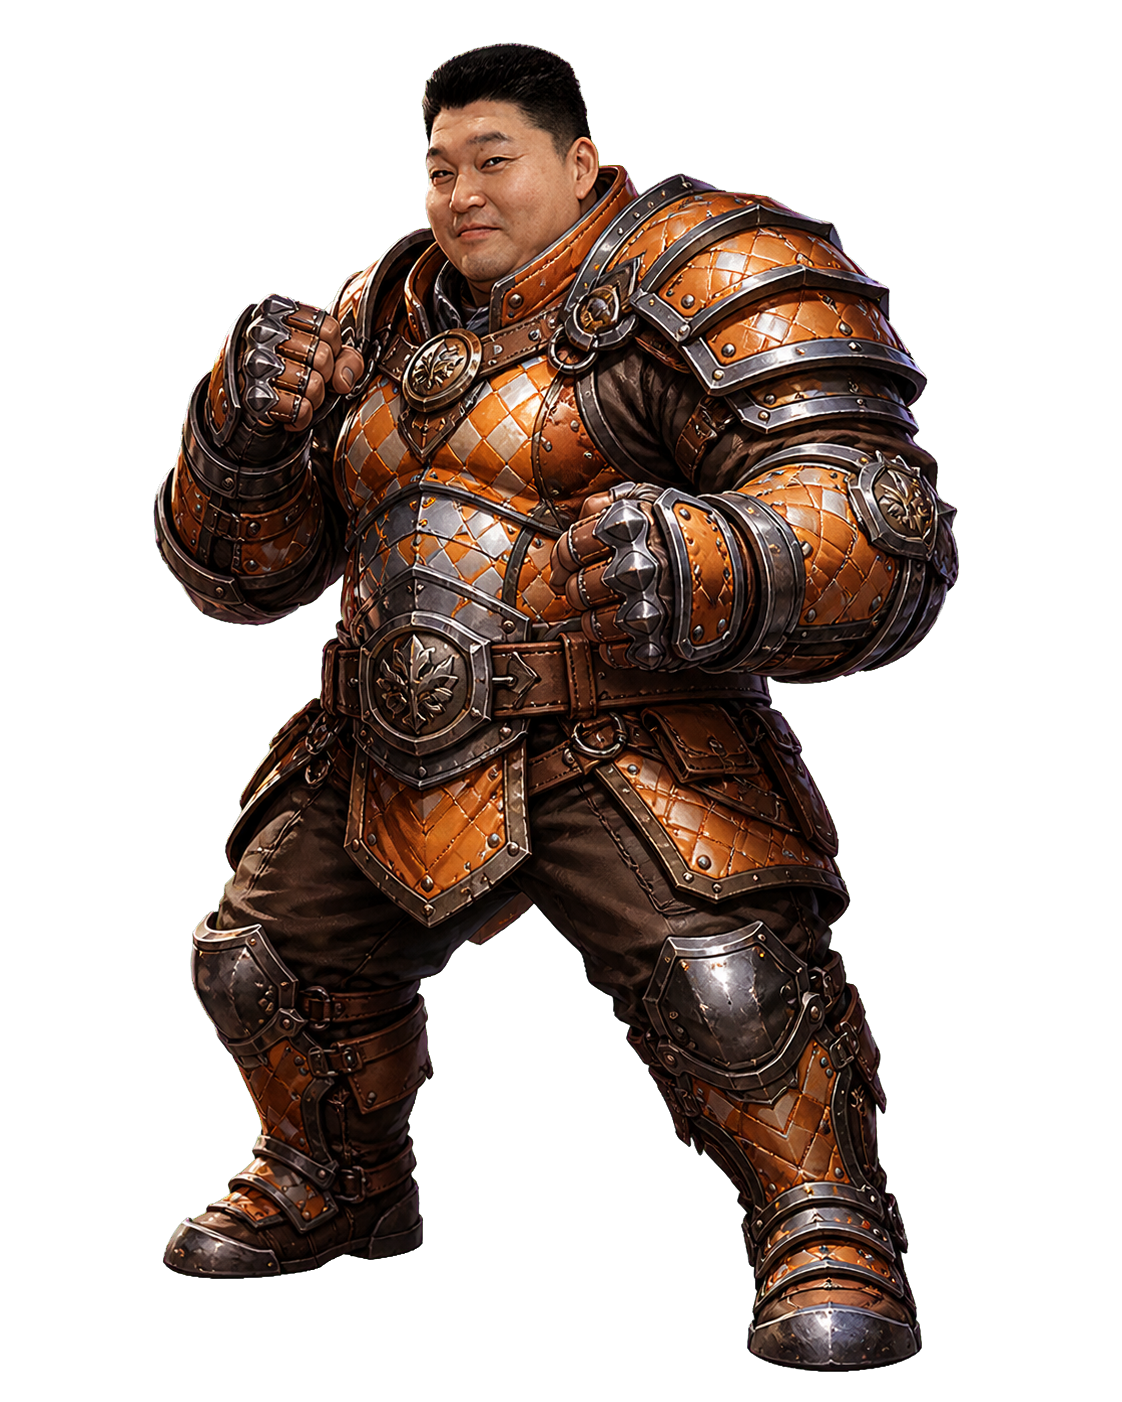
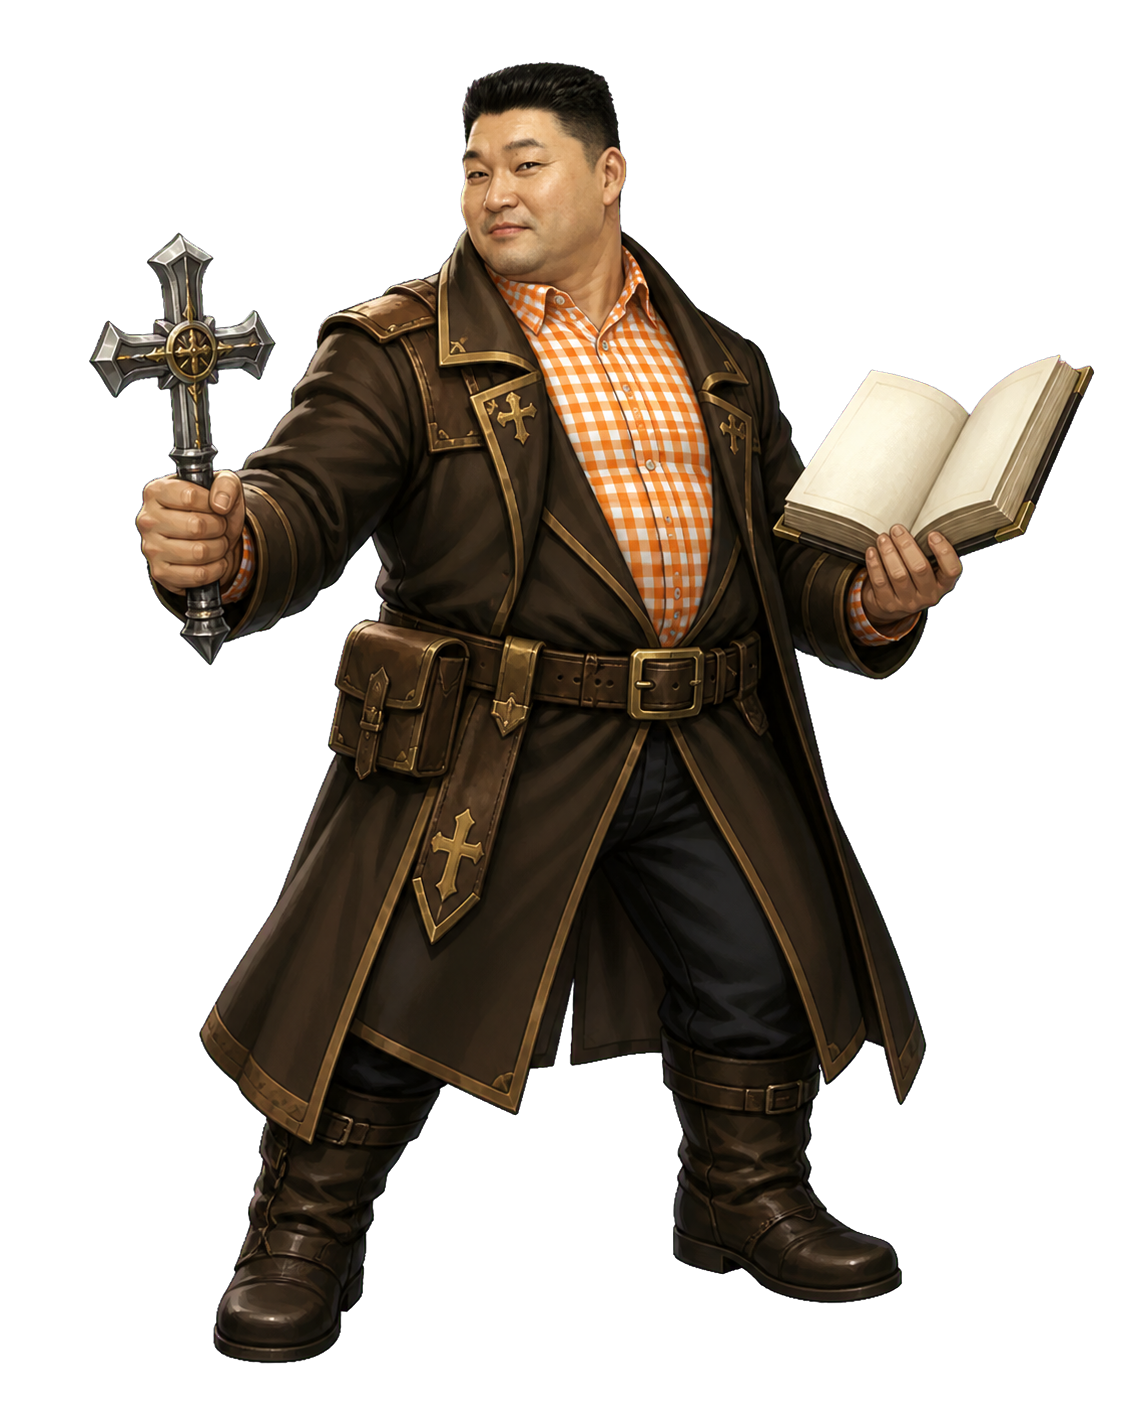
필드

diff --git a/public/hfield.js b/public/hfield.js
@@ -21,6 +21,11 @@
         fail: uiAsset('sfx/fail.mp3'), count: uiAsset('sfx/count.mp3'), potion: uiAsset('sfx/potion.mp3')
     };
     const reducedMotion = matchMedia('(prefers-reduced-motion: reduce)').matches;
+    const CARD_AURA_COLORS = {
+        9: [.5,1,.18,1],
+        10: [.2,.76,1,1],
+        11: [1,.12,.1,1]
+    };
     const clamp = (value, min, max) => Math.max(min, Math.min(max, value));
     const ratio = (value, max) => clamp(Number(value || 0) / Math.max(1, Number(max || 1)), 0, 1);
     const number = value => Number(value || 0).toLocaleString('ko-KR');
@@ -139,7 +144,7 @@
                 void main(){float c=cos(uRotation),s=sin(uRotation);vec2 p=vec2(aPosition.x*c-aPosition.y*s,aPosition.x*s+aPosition.y*c)*uRect.zw;vec2 w=uRect.xy+p;gl_Position=vec4(w.x*2.0-1.0,1.0-w.y*2.0,0.0,1.0);vUv=aPosition+0.5;}`);
             const fragment = this.compile(gl.FRAGMENT_SHADER, `
                 precision mediump float; uniform sampler2D uTexture; uniform vec4 uColor; uniform float uMode; uniform float uFlash; varying vec2 vUv;
-                void main(){vec4 p;if(uMode<0.5){p=texture2D(uTexture,vUv);p.rgb*=uColor.rgb;p.a*=uColor.a;}else if(uMode<1.5){float d=length((vUv-.5)*2.0);p=vec4(uColor.rgb,(1.0-smoothstep(0.0,1.0,d))*uColor.a);}else if(uMode<2.5){float l=1.0-smoothstep(.025,.22,abs(vUv.y-.5));float e=smoothstep(0.0,.2,vUv.x)*smoothstep(0.0,.2,1.0-vUv.x);p=vec4(uColor.rgb,l*e*uColor.a);}else{p=uColor;}p.rgb=mix(p.rgb,vec3(1.0),uFlash);if(p.a<.01)discard;gl_FragColor=p;}`);
+                void main(){vec4 p;if(uMode<0.5){p=texture2D(uTexture,vUv);p.rgb*=uColor.rgb;p.a*=uColor.a;}else if(uMode<1.5){float d=length((vUv-.5)*2.0);p=vec4(uColor.rgb,(1.0-smoothstep(0.0,1.0,d))*uColor.a);}else if(uMode<2.5){float l=1.0-smoothstep(.025,.22,abs(vUv.y-.5));float e=smoothstep(0.0,.2,vUv.x)*smoothstep(0.0,.2,1.0-vUv.x);p=vec4(uColor.rgb,l*e*uColor.a);}else if(uMode<3.5){p=uColor;}else if(uMode<4.5){float d=length((vUv-.5)*2.0);float ring=1.0-smoothstep(.04,.16,abs(d-.7));float glow=(1.0-smoothstep(.55,1.0,d))*.22;p=vec4(uColor.rgb,max(ring,glow)*uColor.a);}else if(uMode<5.5){float taper=1.0-abs(vUv.y*2.0-1.0);float width=.018+.12*taper*taper;float bend=(vUv.y-.5)*.12;float blade=1.0-smoothstep(width,width+.035,abs(vUv.x-.5+bend));float edge=smoothstep(0.0,.14,vUv.y)*smoothstep(0.0,.14,1.0-vUv.y);p=vec4(uColor.rgb,blade*edge*uColor.a);}else if(uMode<6.5){vec4 t=texture2D(uTexture,vUv);float b=0.0;b+=texture2D(uTexture,vUv+vec2(.006,0.0)).a*3.0;b+=texture2D(uTexture,vUv-vec2(.006,0.0)).a*3.0;b+=texture2D(uTexture,vUv+vec2(0.0,.004)).a*3.0;b+=texture2D(uTexture,vUv-vec2(0.0,.004)).a*3.0;b+=texture2D(uTexture,vUv+vec2(.012,.008)).a*2.0;b+=texture2D(uTexture,vUv+vec2(-.012,.008)).a*2.0;b+=texture2D(uTexture,vUv+vec2(.012,-.008)).a*2.0;b+=texture2D(uTexture,vUv-vec2(.012,.008)).a*2.0;b+=texture2D(uTexture,vUv+vec2(.022,0.0)).a;b+=texture2D(uTexture,vUv-vec2(.022,0.0)).a;b+=texture2D(uTexture,vUv+vec2(0.0,.015)).a;b+=texture2D(uTexture,vUv-vec2(0.0,.015)).a;b+=texture2D(uTexture,vUv+vec2(.026,.018)).a*.7;b+=texture2D(uTexture,vUv+vec2(-.026,.018)).a*.7;b+=texture2D(uTexture,vUv+vec2(.026,-.018)).a*.7;b+=texture2D(uTexture,vUv-vec2(.026,.018)).a*.7;b/=24.8;float glow=pow(clamp(b,0.0,1.0),1.35)*(1.0-t.a*.72);p=vec4(uColor.rgb,glow*uColor.a);}else{vec4 t=texture2D(uTexture,vUv);float b=0.0;b+=texture2D(uTexture,vUv+vec2(.018,0.0)).a*2.0;b+=texture2D(uTexture,vUv-vec2(.018,0.0)).a*2.0;b+=texture2D(uTexture,vUv+vec2(0.0,.012)).a*2.0;b+=texture2D(uTexture,vUv-vec2(0.0,.012)).a*2.0;b+=texture2D(uTexture,vUv+vec2(.035,.024)).a;b+=texture2D(uTexture,vUv+vec2(-.035,.024)).a;b+=texture2D(uTexture,vUv+vec2(.035,-.024)).a;b+=texture2D(uTexture,vUv-vec2(.035,.024)).a;b+=texture2D(uTexture,vUv+vec2(.052,.036)).a*.6;b+=texture2D(uTexture,vUv+vec2(-.052,.036)).a*.6;b+=texture2D(uTexture,vUv+vec2(.052,-.036)).a*.6;b+=texture2D(uTexture,vUv-vec2(.052,.036)).a*.6;b/=14.4;float glow=pow(clamp(b,0.0,1.0),1.18)*(1.0-t.a*.88);p=vec4(uColor.rgb,glow*uColor.a);}p.rgb=mix(p.rgb,vec3(1.0),uFlash);if(p.a<.01)discard;gl_FragColor=p;}`);
             const program = gl.createProgram();
             gl.attachShader(program, vertex); gl.attachShader(program, fragment); gl.linkProgram(program);
             if (!gl.getProgramParameter(program, gl.LINK_STATUS)) throw new Error(gl.getProgramInfoLog(program));
@@ -211,6 +216,23 @@
                 this.particle({x,y,vx:Math.cos(angle)*speed,vy:Math.sin(angle)*speed,life:.45+Math.random()*.55,maxLife:1,width:spark?.045+Math.random()*.05:.008+Math.random()*.014,height:spark?.0035:.008+Math.random()*.014,spin:spark?angle:(Math.random()-.5)*5,color,mode:spark?2:1});
             }
         }
+        auraInfo(player) {
+            const star=Number(player&&player.cardStar),tier=star>=11?11:star>=10?10:star>=9?9:0;
+            return tier ? {color:CARD_AURA_COLORS[tier],job:player.cardType==='전직'} : null;
+        }
+  drawPlayerAura(player,x,y,fit,time) {
+      const aura=this.auraInfo(player),texture=this.textures.player;
+      if(!aura||!texture||!texture.ready)return;
+      const color=aura.color,
+        pulse=reducedMotion?.5:(Math.sin(time/(aura.job?300:520))+1)*.5,
+        shimmer=reducedMotion?.5:(Math.sin(time/(aura.job?155:260)+1.2)+1)*.5,
+        bright=[Math.min(1,color[0]*.72+.28),Math.min(1,color[1]*.72+.28),Math.min(1,color[2]*.72+.28),1],
+        rgba=(source,alpha)=>[source[0],source[1],source[2],alpha],
+        outerAlpha=(aura.job?.34:.25)+pulse*(aura.job?.2:.14),
+        innerAlpha=(aura.job?.62:.46)+shimmer*(aura.job?.2:.14);
+      this.draw(texture,x,y,fit.width,fit.height,{mode:7,color:rgba(color,outerAlpha)});
+      this.draw(texture,x,y,fit.width,fit.height,{mode:6,color:rgba(bright,innerAlpha)});
+  }
         animate(event, previous) {
             const now = performance.now(); this.attackAt = now; this.attackKind = event.action || 'attack';
             if (event.damage > 0) {
@@ -244,9 +266,10 @@
             gl.clearColor(.005,.01,.025,1); gl.clear(gl.COLOR_BUFFER_BIT); const bg=this.cover('background');this.draw(this.textures.background,.5,.5,bg.width,bg.height); this.draw(null,.5,.5,1,1,{mode:3,color:[.01,.02,.05,.16]});
             const display = this.holdState || this.state || {}, narrow = innerWidth < 700, phase = display.phase || 'elite';
             const idle = reducedMotion ? 0 : Math.sin(time/520)*.005, progress=clamp((time-this.attackAt)/(this.attackKind==='skill'?620:430),0,1), lunge=progress<1?Math.sin(progress*Math.PI)*.12:0;
-            const playerFit=this.fit('player',narrow?.62:.78,narrow?.48:.36), playerX=(narrow?.24:.25)+lunge;
+            const playerFit=this.fit('player',narrow?.62:.78,narrow?.48:.36), playerX=(narrow?.24:.25)+lunge,playerY=narrow?.68:.66-idle;
+            this.drawPlayerAura(display.player,playerX,playerY,playerFit,time);
             this.draw(null,playerX,.83,narrow?.4:.27,.11,{mode:1,color:[.08,.45,1,.25]});
-            this.draw(this.textures.player,playerX,narrow?.68:.66-idle,playerFit.width,playerFit.height,{flash:time<this.playerHitUntil?.75:0});
+            this.draw(this.textures.player,playerX,playerY,playerFit.width,playerFit.height,{flash:time<this.playerHitUntil?.75:0});
             if (phase === 'pillar') {
                 const alive = display.target && display.target.pillars || [true,true];
                 [0,1].forEach(index => { if (!alive[index]) return; const x=narrow?(index?.78:.61):(index?.81:.65), fit=this.fit('pillar',narrow?.48:.62,narrow?.34:.25),hit=time<this.targetHitUntil&&Math.abs(x-this.impactX)<.11; this.draw(null,x,.78,fit.width*.9,.12,{mode:1,color:[1,.08,.02,.25]}); this.draw(this.textures.pillar,x+(hit?Math.sin(time*.16)*.008:0),.62+idle,fit.width,fit.height,{flash:hit?.85:0}); });
@@ -293,10 +316,10 @@
         }
         topControls(w){const p=w<650?12:22,bw=42,bh=34;this.panel(p,p,bw,bh,'rgba(170,180,194,.45)');this.line(p+25,p+9,p+15,p+17,'#e4e8ed',2);this.line(p+15,p+17,p+25,p+25,'#e4e8ed',2);this.region(p,p,bw,bh,()=>backOrLeave());const x=w-p-bw;this.panel(x,p,bw,bh,'rgba(170,180,194,.45)');const sx=x+20;this.line(sx-7,p+14,sx-2,p+14,'#e4e8ed',2);this.line(sx-2,p+14,sx+4,p+9,'#e4e8ed',2);this.line(sx+4,p+9,sx+4,p+25,'#e4e8ed',2);if(!audio.muted){this.ctx.beginPath();this.ctx.arc(sx+5,p+17,8,-.8,.8);this.ctx.strokeStyle='#e4e8ed';this.ctx.stroke();}else this.line(sx-7,p+9,sx+10,p+26,'#e0655c',2);this.region(x,p,bw,bh,()=>audio.toggle());}
         bossHud(w){if(!state||!state.inField)return;const narrow=w<650,bw=Math.min(narrow?w-120:720,w*.72),x=(w-bw)/2,y=narrow?13:16,key=state.phase+':'+state.target.maxHp;if(this.bossKey!==key){this.bossKey=key;this.bossLagHp=Number(state.target.hp||0);}this.bossLagHp+=(Number(state.target.hp||0)-this.bossLagHp)*.055;const meta=state.phase==='pillar'?'결계 기둥 '+(state.target.pillars||[]).filter(Boolean).length+' / 2':'';this.text(state.target.name,w/2,y+9,narrow?16:20,900,'center','#f7f2e8');if(meta)this.text(meta,w/2,y+27,9,800,'center','#e8b04b');const by=y+(meta?38:28),bh=narrow?15:19;this.bar(x,by,bw,bh,state.target.hp,state.target.maxHp,'#b92d2d',this.bossLagHp);this.text(number(state.target.hp)+' / '+number(state.target.maxHp),w/2,by+bh/2,narrow?9:11,800,'center','#fff');}
-        playerHud(w,h){if(!state||!state.inField)return;const narrow=w<650,pw=narrow?Math.min(238,w*.61):304,ph=narrow?84:94,x=narrow?12:24,y=h-(narrow?184:178);this.panel(x,y,pw,ph,'rgba(232,176,75,.58)');const portrait=this.image(state.player.cardImageUrl),ps=narrow?50:58,px=x+8,py=y+8,infoX=px+ps+9,infoRight=x+pw-9,infoW=infoRight-infoX;this.ctx.save();this.cutPath(px,py,ps,ps,6);this.ctx.clip();if(portrait)this.ctx.drawImage(portrait,px,py,ps,ps);else{this.ctx.fillStyle='#11141b';this.ctx.fillRect(px,py,ps,ps);}this.ctx.restore();this.cutPath(px,py,ps,ps,6);this.ctx.strokeStyle='rgba(232,176,75,.72)';this.ctx.stroke();this.text(state.player.name,infoX,y+16,narrow?13:15,900,'left','#fff5df',infoW);const skin=['[𝛧]',state.player.cardSkin,state.player.cardName].filter(Boolean).join(' ');this.text(skin,infoX,y+34,narrow?8:10,700,'left','#aeb4bf',infoW);const hpTextY=y+(narrow?48:52),hpBarY=y+(narrow?54:59),mpTextY=y+(narrow?65:71),mpBarY=y+(narrow?71:78);this.text('HP',infoX,hpTextY,8,800,'left','#bbb1a0');this.text(number(state.player.hp),infoRight,hpTextY,8,800,'right','#e9e5dc');this.bar(infoX,hpBarY,infoW,6,state.player.hp,state.player.maxHp,'#b92d2d');this.text('MP',infoX,mpTextY,8,800,'left','#bbb1a0');this.text(number(state.player.mp),infoRight,mpTextY,8,800,'right','#e9e5dc');this.bar(infoX,mpBarY,infoW,6,state.player.mp,state.player.maxMp,'#147fc4');}
+        playerHud(w,h){if(!state||!state.inField)return;const mobile=w<650||h<520,landscape=h<520&&w>=650,pw=mobile?Math.min(238,w*.61):304,ph=mobile?84:94,x=landscape?w-pw-12:mobile?12:24,y=mobile?72:h-178;this.panel(x,y,pw,ph,'rgba(232,176,75,.58)');const portrait=this.image(state.player.cardImageUrl),ps=mobile?50:58,px=x+8,py=y+8,infoX=px+ps+9,infoRight=x+pw-9,infoW=infoRight-infoX;this.ctx.save();this.cutPath(px,py,ps,ps,6);this.ctx.clip();if(portrait)this.ctx.drawImage(portrait,px,py,ps,ps);else{this.ctx.fillStyle='#11141b';this.ctx.fillRect(px,py,ps,ps);}this.ctx.restore();this.cutPath(px,py,ps,ps,6);this.ctx.strokeStyle='rgba(232,176,75,.72)';this.ctx.stroke();this.text(state.player.name,infoX,y+16,mobile?13:15,900,'left','#fff5df',infoW);const cardLabel=state.player.cardFormatted||[state.player.cardSkin,state.player.cardName].filter(Boolean).join(' ');this.text(cardLabel,infoX,y+34,mobile?8:10,700,'left','#aeb4bf',infoW);const hpTextY=y+(mobile?48:52),hpBarY=y+(mobile?54:59),mpTextY=y+(mobile?65:71),mpBarY=y+(mobile?71:78);this.text('HP',infoX,hpTextY,8,800,'left','#bbb1a0');this.text(number(state.player.hp),infoRight,hpTextY,8,800,'right','#e9e5dc');this.bar(infoX,hpBarY,infoW,6,state.player.hp,state.player.maxHp,'#b92d2d');this.text('MP',infoX,mpTextY,8,800,'left','#bbb1a0');this.text(number(state.player.mp),infoRight,mpTextY,8,800,'right','#e9e5dc');this.bar(infoX,mpBarY,infoW,6,state.player.mp,state.player.maxMp,'#147fc4');}
         combatLog(w,h){if(!state||!state.inField||!logs.length)return;const narrow=w<650,lines=logs.slice(-4),x=narrow?12:26,base=h-(narrow?201:196),lineH=narrow?14:16;lines.forEach((entry,index)=>{const alpha=.42+(index+1)/lines.length*.58,col=entry.tone==='bad'?'224,101,92':entry.tone==='good'?'240,197,110':'220,224,230';this.text(entry.text,x,base-(lines.length-1-index)*lineH,narrow?9:10,entry.tone==='good'?800:650,'left','rgba('+col+','+alpha+')',Math.min(narrow?w-24:460,w*.48));});}
         actions(w,h){if(!state||!state.inField)return;const narrow=w<650,now=Date.now()+clockOffset,actionLeft=Math.max(0,Number(state.nextActionAt||0)-now)/1000,skills=(state.skills||[]).slice(0,narrow?4:7),gap=narrow?5:7,maxW=Math.min(narrow?w-24:780,w-40),y=h-(narrow?82:76),ah=narrow?68:62,attackW=narrow?86:122,sw=skills.length?Math.min(narrow?62:94,(maxW-attackW-gap*skills.length)/skills.length):0,usedW=skills.length*sw+gap*skills.length+attackW,x=(w-usedW)/2;skills.forEach((skill,index)=>{const left=Math.max(actionLeft,(Number(skill.cooldownEnd||0)-now)/1000),mpLow=Number(state.player.mp)<Number(skill.mpCost||0),disabled=busy||left>0||mpLow;this.actionButton(x+index*(sw+gap),y,sw,ah,{label:skill.name.slice(0,6),sub:Number(skill.mpCost||0)+' MP',key:String(index+1),disabled,cooldown:Math.max(0,left),action:()=>useSkill(skill.name)});});const ax=x+usedW-attackW;this.actionButton(ax,y,attackW,ah,{label:'공격',sub:narrow?'J':'SPACE / J',key:'J',kind:'attack',disabled:busy||actionLeft>0,cooldown:actionLeft,action:()=>attack()});}
-        consumableLauncher(w,h){if(!state||!state.inField)return;const c=this.ctx,narrow=w<650,pw=narrow?Math.min(238,w*.61):304,size=narrow?52:58,x=Math.min(w-size-(narrow?12:22),(narrow?12:24)+pw+8),y=h-(narrow?174:166),list=state.consumables||[],disabled=list.length===0;this.cutPath(x,y,size,size,7);const g=c.createLinearGradient(x,y,x,y+size);g.addColorStop(0,disabled?'#24282e':'#253b35');g.addColorStop(1,disabled?'#111318':'#0b211b');c.fillStyle=g;c.fill();c.strokeStyle=disabled?'rgba(100,105,115,.45)':'rgba(98,225,157,.72)';c.lineWidth=1;c.stroke();if(!disabled)this.line(x+7,y+1,x+size*.64,y+1,'rgba(146,255,197,.78)',2);const item=list[0],art=narrow?31:35,ax=x+(size-art)/2,ay=y+5,frame=item&&this.image(item.frameUrl),icon=item&&this.image(item.iconUrl);if(frame)c.drawImage(frame,ax,ay,art,art);if(icon)c.drawImage(icon,ax,ay,art,art);if(!icon){this.line(x+size/2-7,y+19,x+size/2+7,y+19,disabled?'#666b73':'#85e4af',3);this.line(x+size/2,y+12,x+size/2,y+26,disabled?'#666b73':'#85e4af',3);}this.text('회복',x+size/2,y+size-9,8,900,'center',disabled?'#686d75':'#dffbea');this.text('P',x+5,y+7,7,900,'left',disabled?'#60656c':'#a8d8bd');if(list.length)this.text(number(list.reduce((sum,entry)=>sum+Number(entry.count||0),0)),x+size-5,y+size-7,7,900,'right','#8de8b4');if(!disabled&&!busy)this.region(x,y,size,size,()=>this.toggleConsumables());}
+        consumableLauncher(w,h){if(!state||!state.inField)return;const c=this.ctx,mobile=w<650||h<520,bw=mobile?60:70,bh=34,x=mobile?12:24,y=mobile?h-126:h-66,list=state.consumables||[],disabled=list.length===0;this.cutPath(x,y,bw,bh,6);const g=c.createLinearGradient(x,y,x,y+bh);g.addColorStop(0,disabled?'#24282e':'#253b35');g.addColorStop(1,disabled?'#111318':'#0b211b');c.fillStyle=g;c.fill();c.strokeStyle=disabled?'rgba(100,105,115,.45)':'rgba(98,225,157,.72)';c.lineWidth=1;c.stroke();if(!disabled)this.line(x+7,y+1,x+bw*.64,y+1,'rgba(146,255,197,.78)',2);this.text('회복',x+bw/2,y+bh/2,12,900,'center',disabled?'#686d75':'#dffbea');if(!disabled&&!busy)this.region(x,y,bw,bh,()=>this.toggleConsumables());}
         toggleConsumables(){if(!state||!state.inField||this.inEntryTransition()||rewards||dialog)return;this.consumableMenu=!this.consumableMenu;if(this.consumableMenu)this.consumablePage=0;}
         closeConsumables(){this.consumableMenu=false;}
         inConsumableMenu(){return !!this.consumableMenu;}

diff --git a/server.js b/server.js
@@ -1954,11 +1954,31 @@ function getHFieldSkills(user, mainCard) {
     }));
 }
 
+const H_FIELD_SPRITE_EXCLUSIONS = new Set([
+    '딜러장__일반__수영장 파티.png',
+    '딜러장__일반__고급 수영장 파티.png',
+    '딜러장__전직__고급 산타.png',
+    '흠시원__일반__수영장 파티.png',
+    '흠시원__일반__고급 수영장 파티.png'
+]);
+
+function getHFieldSpritePart(value) {
+    return String(value || '').trim().replace(/[<>:"/\\|?*\x00-\x1f]/g, '_');
+}
+
 function getHFieldCharacterSprite(mainCard) {
-    if (!mainCard || !mainCard.name) return '/rpg-ui?file=' + encodeURIComponent('필드/hfield-hunter.png');
-    const relative = path.join('필드', '캐릭터', mainCard.name + '.png');
-    const fullPath = path.join(RPG_UI_PATH, relative);
-    const selected = fs.existsSync(fullPath) ? relative : '필드/hfield-hunter.png';
+    const fallback = '필드/hfield-hunter.png';
+    if (!mainCard || !mainCard.name) return '/rpg-ui?file=' + encodeURIComponent(fallback);
+    const name = getHFieldSpritePart(mainCard.name);
+    const cardType = mainCard.type == '전직' ? '전직' : '일반';
+    const skin = getHFieldSpritePart(mainCard.skin);
+    const candidates = [];
+    if (skin) candidates.push([name, cardType, skin].join('__') + '.png');
+    if (cardType == '전직') candidates.push(name + '__전직.png');
+    candidates.push(name + '.png');
+    const spriteRoot = path.join(RPG_UI_PATH, '필드', '캐릭터');
+    const sprite = candidates.find(file => !H_FIELD_SPRITE_EXCLUSIONS.has(file) && fs.existsSync(path.join(spriteRoot, file)));
+    const selected = sprite ? path.join('필드', '캐릭터', sprite) : fallback;
     return '/rpg-ui?file=' + encodeURIComponent(selected.replace(/\\/g, '/'));
 }
 
@@ -2006,6 +2026,8 @@ function buildHFieldState(user) {
             def: Number(stats.def || 0),
             combatPower: Number(rpgenius.calculateCombatPower(user).total || 0),
             cardName: mainCard && mainCard.name || '',
+            cardFormatted: mainCard && mainCard.formatted || '',
+            cardStar: mainCard ? Number(mainCard.star || 0) : null,
             cardImageUrl: mainCard && mainCard.imageUrl || null,
             cardType: mainCard && mainCard.type || '일반',
             cardSkin: mainCard && mainCard.skin || '',

diff --git a/tests/hfield_flow.test.js b/tests/hfield_flow.test.js
@@ -17,6 +17,14 @@ const rpg = require('../rpgenius');
     assert.ok(invitationId >= 0, '헬 초대장 데이터가 필요합니다.');
     assert.ok(recoveryId >= 0, '회복 소모품 데이터가 필요합니다.');
 
+    const characterCards = JSON.parse(fs.readFileSync(path.join(__dirname, '..', 'DB', 'RPGenius', 'CharacterCards.json'), 'utf8'));
+    const characterName = characterCards[0].name;
+    assert.strictEqual(rpg.formatUserCard({ id: 0, star: 0, type: '일반' }), '[1성] ' + characterName);
+    assert.strictEqual(rpg.formatUserCard({ id: 0, star: 8, type: '일반' }), '[9성] ' + characterName);
+    assert.strictEqual(rpg.formatUserCard({ id: 0, star: 9, type: '일반' }), '[𝛧] ' + characterName);
+    assert.strictEqual(rpg.formatUserCard({ id: 0, star: 10, type: '일반' }), '[𝛴] ' + characterName);
+    assert.strictEqual(rpg.formatUserCard({ id: 0, star: 11, type: '전직' }), '[𝛀] 전직 ' + characterName);
+
     const user = new rpg.RPGUser('H필드흐름테스트', 'hfield-flow-test');
     user.level = 141;
     rpg.addInventoryItem(user, invitationId, rpg.HELL_INVITATION_COST);
